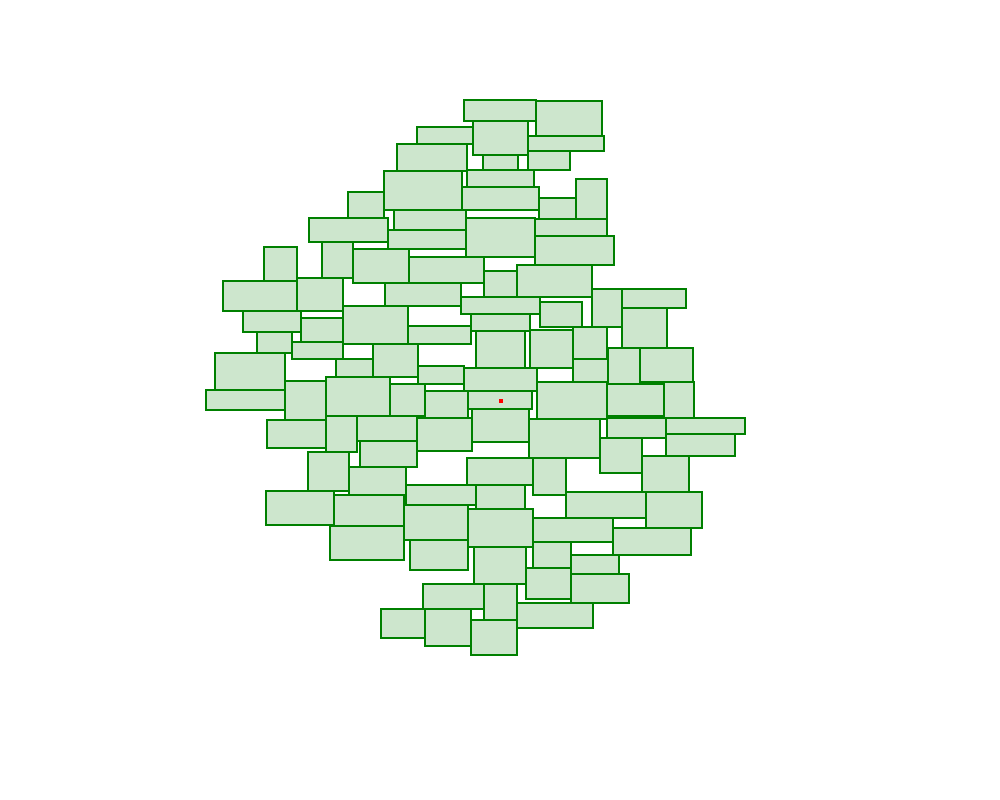
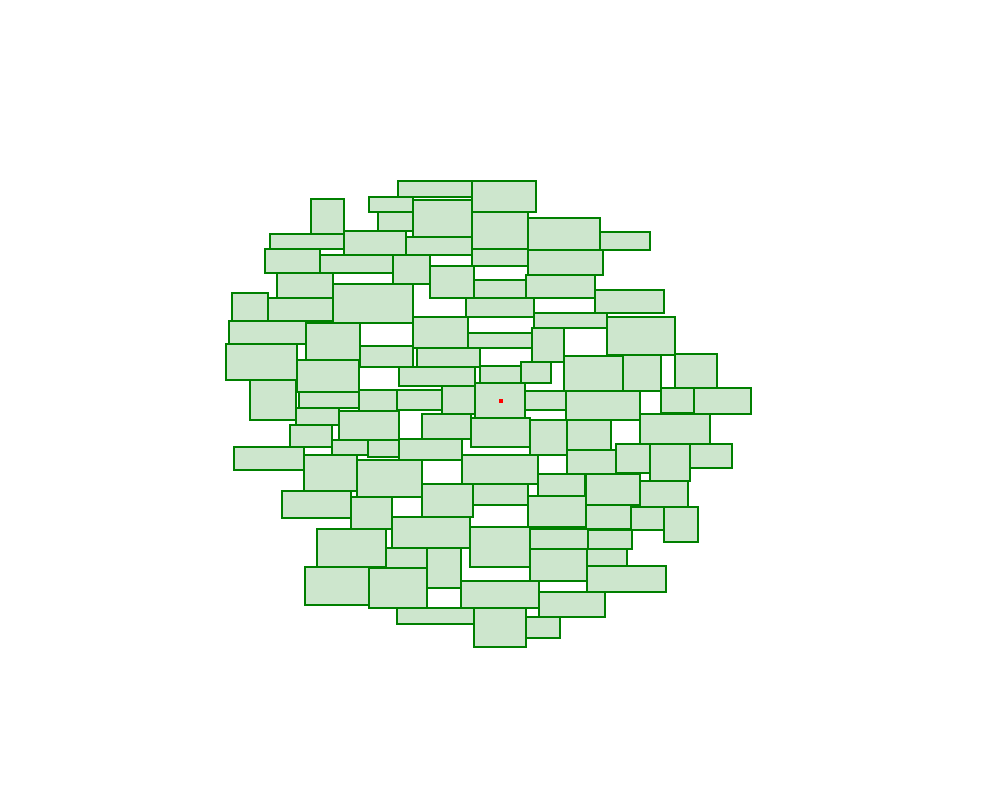
fix Tests and Paths

Changed region(s): [[0.186, 0.125, 0.775, 0.8438]]

diff --git a/cs/TagCloud/TagsCloudVisualizationTests/CircularCloudLayouterTests.cs b/cs/TagCloud/TagsCloudVisualizationTests/CircularCloudLayouterTests.cs
@@ -17,8 +17,7 @@ public class CircularCloudLayouterTests
     {
         center = new Point(100, 100);
         layouter = new CircularCloudLayouter(center);
-        var dir = Directory.CreateDirectory($"../../../../TagsCloudVisualizationTests/test_results");
-        imageSaver = new ImageSaver(dir.FullName);
+        imageSaver = new ImageSaver("test_results");
         testVisualizer = new TagCloudVisualizer(imageSaver);
     }
     
@@ -65,7 +64,7 @@ public class CircularCloudLayouterTests
         for (var i = 0; i < 5; i++)
             layouter.PutNextRectangle(new Size(45, 15));
         
-        var rectangles = layouter.PlacedRectangles.ToList();
+        var rectangles = layouter.PlacedRectangles;
         rectangles.Should().NotBeEmpty();
         
         for (var i = 0; i < rectangles.Count; i++)
@@ -92,12 +91,41 @@ public class CircularCloudLayouterTests
     }
     
     [Test]
-    public void PutNextRectangle_ManyRectangles_FormsCircularShape()
+    public void PutNextRectangle_ManyRectangles_RectanglesInAllQuadrants()
+    {
+        for (var i = 0; i < 150; i++)
+            layouter.PutNextRectangle(new Size(45, 15));
+
+        var rectangles = layouter.PlacedRectangles;
+        
+        var quadrants = new int[4];
+
+        foreach (var rect in rectangles)
+        {
+            var rectCenter = new Point(rect.X + rect.Width / 2,
+                rect.Y + rect.Height / 2);
+
+            if (rectCenter.X >= center.X && rectCenter.Y <= center.Y)
+                quadrants[0]++;
+            else if (rectCenter.X >= center.X && rectCenter.Y > center.Y)
+                quadrants[1]++;
+            else if (rectCenter.X < center.X && rectCenter.Y > center.Y)
+                quadrants[2]++;
+            else
+                quadrants[3]++;
+        }
+        
+        quadrants.All(count => count > 0).Should().BeTrue(
+            "Прямоугольники должны распределиться по всем квадрантам, образуя круглую форму");
+    }
+
+    [Test]
+    public void PutNextRectangle_ManyRectangles_DistributionIsRelativelyUniform()
     {
         for (var i = 0; i < 150; i++)
             layouter.PutNextRectangle(new Size(45, 15));
         
-        var rectangles = layouter.PlacedRectangles.ToList();
+        var rectangles = layouter.PlacedRectangles;
         
         var quadrants = new int[4];
     
@@ -115,11 +143,13 @@ public class CircularCloudLayouterTests
                 quadrants[3]++;
         }
         
-        quadrants.All(count => count > 0).Should().BeTrue();
-        
         var maxCount = quadrants.Max();
         var minCount = quadrants.Min();
-        (maxCount <= minCount * 2).Should().BeTrue();
+        
+        (maxCount <= minCount * 2).Should().BeTrue("Распределение по квадрантам должно быть относительно равномерным");
+        
+        TestContext.Out.WriteLine($"Распределение по квадрантам: [{string.Join(", ", quadrants)}]");
+        TestContext.Out.WriteLine($"Максимум: {maxCount}, Минимум: {minCount}, Отношение: {(double)maxCount / minCount:F2}");
     }
 
     private double CalculateBoundingCircleRadius()

diff --git a/cs/TagCloud/TagsCloudVisualization/ImageSaver.cs b/cs/TagCloud/TagsCloudVisualization/ImageSaver.cs
@@ -1,16 +1,16 @@
 using System.Drawing;
 using System.Drawing.Imaging;
+using System.Reflection;
 
 namespace TagsCloudVisualization;
 
 public class ImageSaver : IImageSaver
 {
-    private readonly string _outputDirectory;
+    private readonly string _relativeOutputDirectory;
 
-    public ImageSaver(string outputDirectory)
+    public ImageSaver(string relativeOutputDirectory = "out")
     {
-        _outputDirectory = outputDirectory ?? throw new ArgumentNullException(nameof(outputDirectory));
-        Directory.CreateDirectory(_outputDirectory);
+        _relativeOutputDirectory = relativeOutputDirectory;
     }
     
     public string GenerateFileName(string baseName)
@@ -25,10 +25,29 @@ public class ImageSaver : IImageSaver
 
         if (string.IsNullOrWhiteSpace(fileName))
             throw new ArgumentException("File name cannot be empty", nameof(fileName));
-            
-        var filePath = Path.Combine(_outputDirectory, fileName);
+        
+        var projectDir = GetProjectDirectory();
+        var outputDir = Path.Combine(projectDir, _relativeOutputDirectory);
+        Directory.CreateDirectory(outputDir);
+        
+        var filePath = Path.Combine(outputDir, fileName);
         bitmap.Save(filePath, format ?? ImageFormat.Png);
         
         return Path.GetFullPath(filePath);
+    }
+
+    private string GetProjectDirectory()
+    {
+        var baseDir = AppDomain.CurrentDomain.BaseDirectory;
+        var currentDir = baseDir;
+        while (currentDir != null)
+        {
+            if (Directory.GetFiles(currentDir, "*.csproj").Any())
+                return currentDir;
+            var parent = Directory.GetParent(currentDir);
+            currentDir = parent?.FullName;
+        }
+        
+        return baseDir;
     }
 }

diff --git a/cs/TagCloud/TagsCloudVisualization/Program.cs b/cs/TagCloud/TagsCloudVisualization/Program.cs
@@ -6,9 +6,8 @@ class Program
 {
     static void Main()
     {
-        var dir = Directory.CreateDirectory($"../../../../TagsCloudVisualization/out");
-        
-        var visualizer = new TagCloudVisualizer(new ImageSaver(dir.FullName));
+        var imageSaver = new ImageSaver();
+        var visualizer = new TagCloudVisualizer(imageSaver);
         var sizeProvider = new RandomRectangleSizeProvider();
         var layouterFactory = (Point center) => new CircularCloudLayouter(center);
         

diff --git a/cs/TagCloud/TagsCloudVisualization/CircularCloudLayouter.cs b/cs/TagCloud/TagsCloudVisualization/CircularCloudLayouter.cs
@@ -19,7 +19,7 @@ public class CircularCloudLayouter : ILayouter
         _minDimension = int.MaxValue;
     }
 
-    public IEnumerable<Rectangle> PlacedRectangles => _placedRectangles.AsReadOnly();
+    public IReadOnlyList<Rectangle> PlacedRectangles => _placedRectangles.AsReadOnly();
 
     public Rectangle PutNextRectangle(Size rectangleSize)
     {

diff --git a/cs/TagCloud/TagsCloudVisualization/ILayouter.cs b/cs/TagCloud/TagsCloudVisualization/ILayouter.cs
@@ -5,6 +5,6 @@ namespace TagsCloudVisualization;
 public interface ILayouter
 {
     Rectangle PutNextRectangle(Size rectangleSize);
-    IEnumerable<Rectangle> PlacedRectangles { get; }
+    IReadOnlyList<Rectangle> PlacedRectangles { get; }
 
 }
